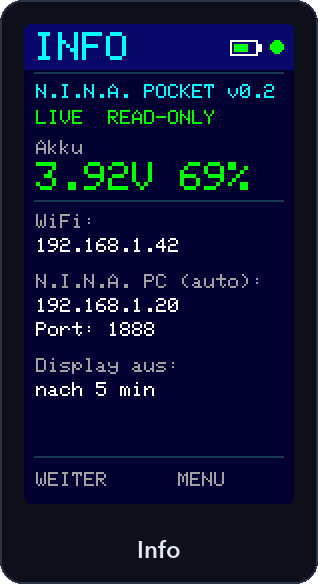
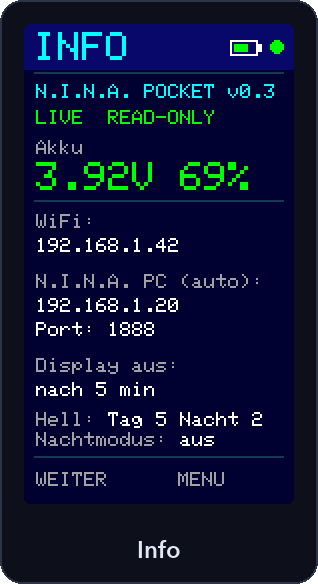
Mockups: night mode and brightness bar, Info page at v0.3

diff --git a/tools/render_mockups.py b/tools/render_mockups.py
@@ -34,6 +34,13 @@ def rgb565(c):
     return (r * 255 // 31, g * 255 // 63, b * 255 // 31)
 
 
+def night_pixel(c):
+    """Night mode: RGB565 -> red only, keeping the perceived brightness (nightPixel())."""
+    r, g, b = (c >> 11) & 0x1F, (c >> 5) & 0x3F, c & 0x1F
+    l = (r * 2 * 77 + g * 150 + b * 2 * 29) >> 8
+    return (l >> 1) << 11
+
+
 BG, PANEL, CYAN, GREEN = 0x0006, 0x084D, 0x07FF, 0x07E0
 YELLOW, WHITE, GRAY, RED = 0xFFE0, 0xFFFF, 0xA514, 0xF800
 LINE, GRID = 0x19CA, 0x18E3
@@ -58,10 +65,11 @@ class Screen:
         self.cx = self.cy = 0
         self.size = 1
         self.fg = self.bg = WHITE
+        self.night = False
 
     def pixel(self, x, y, c):
         if 0 <= x < W and 0 <= y < H:
-            self.px[x, y] = rgb565(c)
+            self.px[x, y] = rgb565(night_pixel(c) if self.night else c)
 
     def fill_rect(self, x, y, w, h, c):
         for yy in range(y, y + h):
@@ -176,8 +184,9 @@ def yes_no(v):
 
 
 class Pages:
-    def __init__(self, scr):
+    def __init__(self, scr, level=None):
         self.s = scr
+        self.level = level  # brightness bar in the footer (shown 1.5 s after a long press)
 
     def text(self, x, y, s, c=WHITE, size=1, bg=BG):
         self.s.fg, self.s.bg, self.s.size = c, bg, size
@@ -204,6 +213,15 @@ class Pages:
 
     def footer(self, left="WEITER", right="MENU"):
         self.sep(216)
+        if self.level:
+            self.text(6, 224, "HELL", GRAY)
+            for i in range(5):
+                x = 36 + i * 12
+                if i < self.level:
+                    self.s.fill_rect(x, 224, 9, 8, WHITE)
+                else:
+                    self.s.draw_rect(x, 224, 9, 8, GRAY)
+            return
         self.text(6, 224, left, GRAY)
         self.text(77, 224, right, GRAY)
 
@@ -527,6 +545,7 @@ def main():
         "~/Documents/Arduino/libraries/Adafruit_GFX_Library/glcdfont.c"
     glyphs = load_font(font_path)
     now = demo_time()
+    # key, label, draw, night mode, brightness bar level
     pages = [("home", "Hauptmenü", lambda p: p.home()),
              ("system", "Systemstatus", lambda p: p.system()),
              ("session", "Session", lambda p: p.session()),
@@ -535,12 +554,17 @@ def main():
              ("filter", "Filterrad", lambda p: p.filter()),
              ("object", "Objekt", lambda p: p.object()),
              ("altitude", "Höhenverlauf", lambda p: p.altitude(now)),
-             ("about", "Info", lambda p: p.about())]
+             ("about", "Info", lambda p: p.about()),
+             ("night-session", "Nacht: Session", lambda p: p.session(), True),
+             ("night-altitude", "Nacht: Höhe", lambda p: p.altitude(now), True),
+             ("brightness", "Helligkeit", lambda p: p.system(), False, 3)]
     (OUT / "screens").mkdir(parents=True, exist_ok=True)
     screens = {}
-    for key, label, draw in pages:
+    for key, label, draw, *opts in pages:
+        night, level = (opts + [False, None])[:2]
         scr = Screen(glyphs)
-        draw(Pages(scr))
+        scr.night = night
+        draw(Pages(scr, level))
         screens[key] = scr.img
         gallery_tile(scr.img, label).save(OUT / "screens" / f"{key}.png", optimize=True)
         print("screen", key)

diff --git a/README.md b/README.md
@@ -50,10 +50,15 @@
     <td align="center"><img src="docs/images/screens/altitude.png" width="200" alt="Höhenverlauf"></td>
     <td align="center"><img src="docs/images/screens/about.png" width="200" alt="Info"></td>
   </tr>
+  <tr>
+    <td align="center"><img src="docs/images/screens/night-session.png" width="200" alt="Nachtmodus: Session"></td>
+    <td align="center"><img src="docs/images/screens/night-altitude.png" width="200" alt="Nachtmodus: Höhenverlauf"></td>
+    <td align="center"><img src="docs/images/screens/brightness.png" width="200" alt="Helligkeitsbalken in der Fußzeile"></td>
+  </tr>
 </table>
 
 > [!NOTE]
-> Die Bilder sind **pixelgenaue Mockups** mit Demodaten: Sie werden von [`tools/render_mockups.py`](tools/render_mockups.py) mit denselben Koordinaten, Farben und derselben 5×7-Schrift erzeugt wie auf dem echten 135 × 240-Display.
+> Die Bilder sind **pixelgenaue Mockups** mit Demodaten: Sie werden von [`tools/render_mockups.py`](tools/render_mockups.py) mit denselben Koordinaten, Farben und derselben 5×7-Schrift erzeugt wie auf dem echten 135 × 240-Display. Die Nachtbilder nutzen dieselbe Rot-Umrechnung wie die Firmware; die gedimmte Hintergrundbeleuchtung lässt sich im Bild nicht zeigen.
 
 ## 📸 Im Einsatz
 

diff --git a/CHANGELOG.md b/CHANGELOG.md
@@ -5,6 +5,9 @@
 ### Gehäuse
 - USB-C-Buchse nachgemessen: `USB_TOP` 1,2 mm (vorher geschätzt 2,0), `USB_OUT` 2,0 mm (4,0), `USB_LEN` 7,0 mm (7,4). `PCB_L` ist damit 50,0 mm, die Gesamtlänge bleibt 52 mm.
 - Taster nachgemessen: `BTN_FROM_USB` 7,0 mm (vorher geschätzt 6,2), die Tastermitten liegen 5 mm innerhalb der Platinenkante. Die Tasten im Deckel rücken damit 0,8 mm weiter zur Displayseite.
+
+### Dokumentation
+- Mockups: Info-Seite auf v0.3 aktualisiert, neue Bilder für den Nachtmodus (Session, Höhenverlauf) und den Helligkeitsbalken. `render_mockups.py` bildet dazu die Rot-Umrechnung und den Balken der Firmware nach.
 - Die Freistellung im Deckel richtet sich jetzt nach den Tastern (1,8 mm), weil die Buchse niedriger ist als angenommen. Die USB-Öffnung sitzt 0,4 mm tiefer.
 
 ## v0.3 – November 2026
